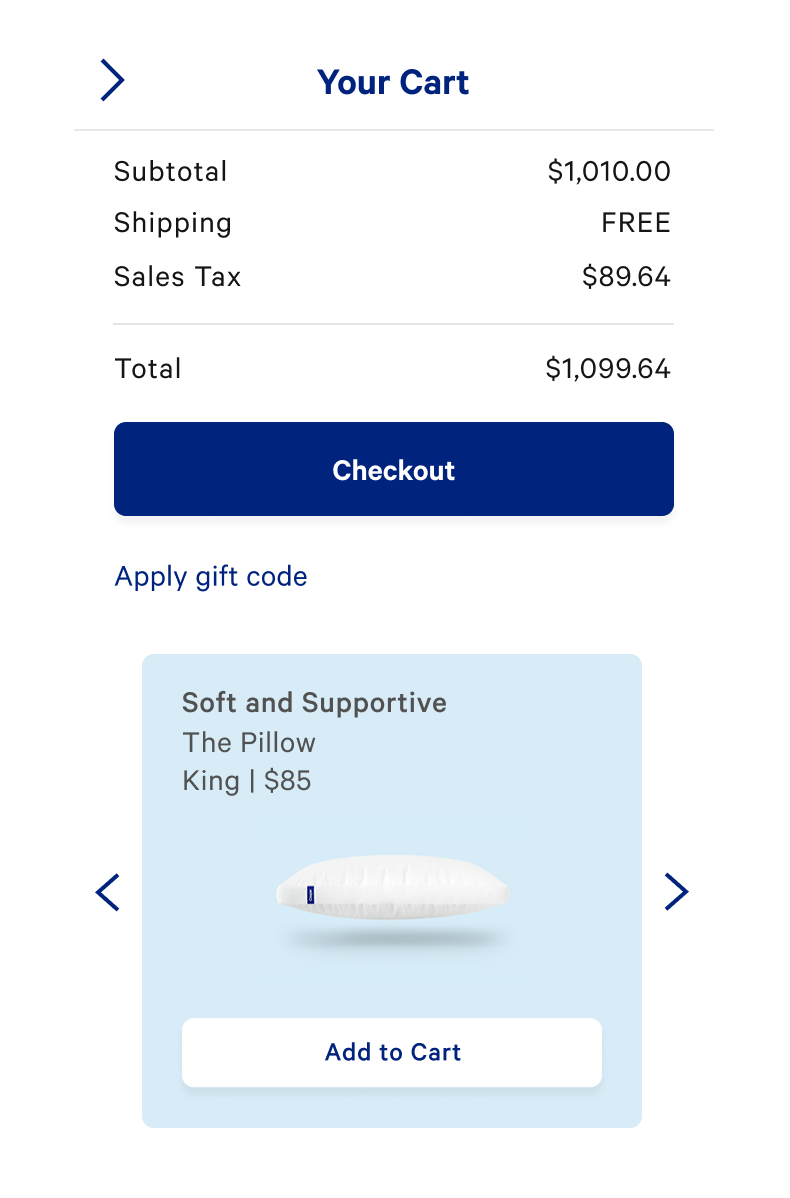
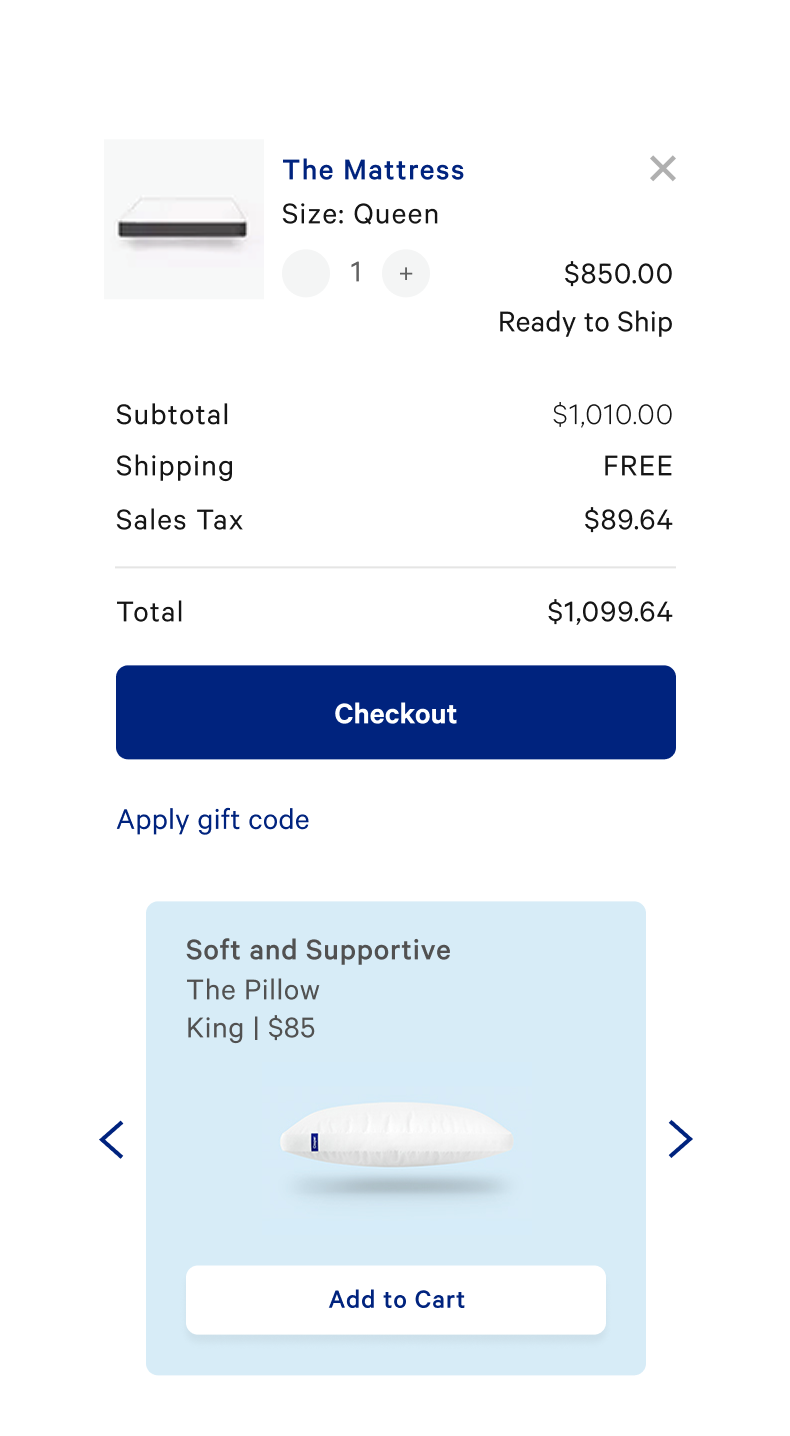
Casper Case Study animation updates

diff --git a/script.js b/script.js
@@ -417,14 +417,58 @@ function animateCountUp(slide) {
   });
 }
 
+function triggerDesignAnimation(wrap) {
+  const cartImg = wrap.querySelector('.cs-design-cart-img');
+  const scrollImg = wrap.querySelector('.cs-design-scroll-img');
+  const inner = wrap.querySelector('.cs-design-inner');
+  if (cartImg && scrollImg && inner) {
+    const run = () => {
+      wrap.classList.remove('is-animated');
+      scrollImg.style.transition = 'none';
+      scrollImg.style.transform = 'translateY(0)';
+      inner.style.height = cartImg.offsetHeight + 'px';
+      scrollImg.offsetHeight; // force reflow
+      scrollImg.style.transition = '';
+      setTimeout(() => {
+        scrollImg.style.transform = `translateY(-${scrollImg.offsetHeight - cartImg.offsetHeight}px)`;
+        wrap.classList.add('is-animated');
+      }, 800);
+    };
+    Promise.all([
+      cartImg.complete ? Promise.resolve() : new Promise(r => cartImg.addEventListener('load', r, { once: true })),
+      scrollImg.complete ? Promise.resolve() : new Promise(r => scrollImg.addEventListener('load', r, { once: true })),
+    ]).then(() => {
+      run();
+      // Keep inner height in sync as the browser resizes
+      if (!wrap._resizeObserver) {
+        wrap._resizeObserver = new ResizeObserver(() => {
+          inner.style.height = cartImg.offsetHeight + 'px';
+        });
+        wrap._resizeObserver.observe(cartImg);
+      }
+    });
+  } else {
+    wrap.classList.add('is-animated');
+  }
+}
+
 function initOverlayAnimationsOnScroll() {
   const wraps = document.querySelectorAll('.cs-problem-wrap, .cs-design-wrap');
   if (!wraps.length) return;
   const observer = new IntersectionObserver((entries) => {
     entries.forEach(entry => {
+      // Only handle scroll-triggered animation in stacked (mobile) layout
+      if (window.innerWidth > 768) return;
       if (entry.isIntersecting) {
-        entry.target.classList.add('is-animated');
-        observer.unobserve(entry.target);
+        triggerDesignAnimation(entry.target);
+      } else {
+        // Reset when scrolled out so it replays on re-entry
+        const scrollImg = entry.target.querySelector('.cs-design-scroll-img');
+        if (scrollImg) {
+          entry.target.classList.remove('is-animated');
+          scrollImg.style.transition = 'none';
+          scrollImg.style.transform = 'translateY(0)';
+        }
       }
     });
   }, { threshold: 0.4 });
@@ -481,9 +525,11 @@ function initCaseStudyPagination() {
     }
     // Trigger count-up animation if this slide has metrics
     if (slides[current].querySelector('.cs-count-up')) animateCountUp(slides[current]);
-    // Trigger overlay animations on problem/design slides
-    const overlay = slides[current].querySelector('.cs-problem-wrap, .cs-design-wrap');
-    if (overlay) overlay.classList.add('is-animated');
+    // Trigger overlay animations on problem/design slides (paginated layout only)
+    if (window.innerWidth > 768) {
+      const overlay = slides[current].querySelector('.cs-problem-wrap, .cs-design-wrap');
+      if (overlay) triggerDesignAnimation(overlay);
+    }
     // Dismiss hint once user navigates past slide 2
     if (current >= 1 && hint && !hintDismissed) {
       hintDismissed = true;

diff --git a/styles.css b/styles.css
@@ -2283,7 +2283,7 @@ footer {
 .cs-problem-wrap::after {
   content: '';
   position: absolute;
-  inset: 0 0 31.6% 0; /* covers top 75% */
+  inset: 0 0 30% 0; /* covers top 75% */
   background: #181642;
   opacity: 0;
   pointer-events: none;
@@ -2300,24 +2300,53 @@ footer {
 /* Casper design slide — top overlay */
 .cs-design-wrap {
   position: relative;
+  overflow: hidden;
+  display: flex;
+  align-items: center;
+  justify-content: center;
 }
 
-.cs-design-wrap::after {
+.cs-design-inner {
+  position: relative;
+  overflow: hidden;
+  margin: 48px;
+}
+
+.cs-design-inner::after {
   content: '';
   position: absolute;
-  inset: 0 0 48.35% 0;
+  inset: 0 0 49% 0;
   background: #ADD3EB;
   opacity: 0;
   pointer-events: none;
+  z-index: 3;
 }
 
-.cs-design-wrap.is-animated::after {
-  animation: cs-design-overlay 3s ease-out 0.5s forwards;
+.cs-design-wrap.is-animated .cs-design-inner::after {
+  animation: cs-design-overlay 3s ease-out 2s forwards;
 }
 
 @keyframes cs-design-overlay {
   to { opacity: 0.9; }
 }
+
+.cs-design-cart-img {
+  display: block;
+  width: 100%;
+  position: relative;
+  z-index: 2;
+}
+
+.cs-design-scroll-img {
+  position: absolute;
+  top: 0;
+  left: 0;
+  width: 100%;
+  z-index: 1;
+  transform: translateY(0);
+  transition: transform 1.6s cubic-bezier(0.4, 0, 0.2, 1);
+}
+
 
 .cs-iter-caption {
   grid-area: 1/1;

diff --git a/casper.html b/casper.html
@@ -95,7 +95,10 @@
                 </div>
               </div>
               <div class="cs-hero-img-wrap cs-design-wrap" style="background-color: #ADD3EB !important;">
-                <img src="img/casper/casper-hero-final-design.png" alt="Casper design process" class="cs-hero-img" style="display:block; margin: 0 auto; padding:32px;" />
+                <div class="cs-design-inner">
+                  <img src="img/casper/casper-hero-final-design.png" alt="Casper design process" class="cs-design-scroll-img"/>
+                  <img src="img/casper/casper-hero-final-design-cart.png" alt="Casper cross-sell module" class="cs-design-cart-img"/>
+                </div>
               </div>
             </div>
 

diff --git a/verizon.html b/verizon.html
@@ -37,7 +37,7 @@
                 </div>
                 <div class="cs-card-meta-item">
                   <span class="cs-label">ROLE</span>
-                  <p class="cs-card-value">Senior Designer, AKQA.</p>
+                  <p class="cs-card-value">Senior Designer, AKQA</p>
                 </div>
               </div>
               <div class="cs-hero-img-wrap cs-hero-img-wrap--iphone cs-hero-img-wrap--dark-grad">
